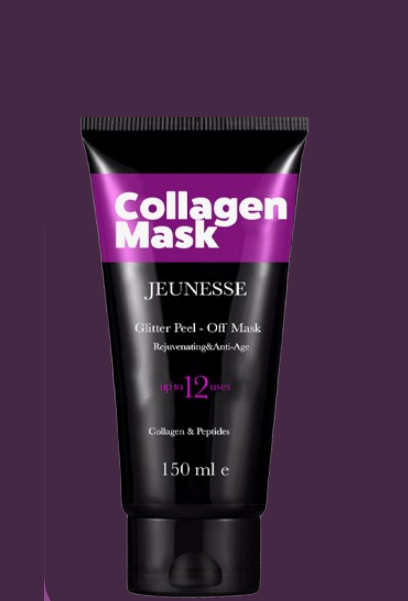
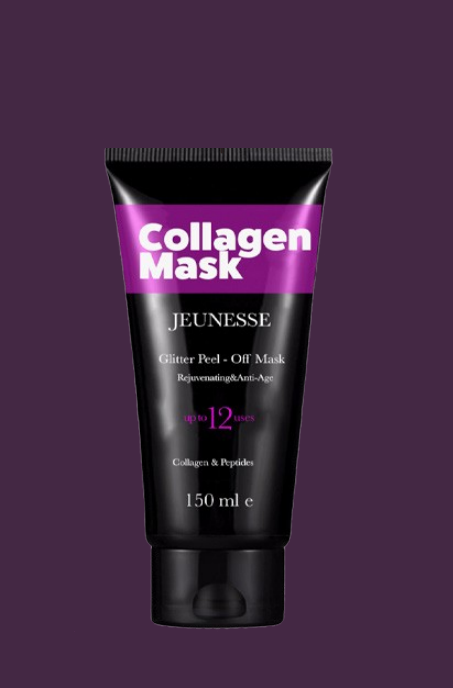
1.0.5

Changed region(s): [[0.1765, 0.1797, 0.7647, 1.0], [0.0882, 0.9584, 0.1176, 1.0]]

diff --git a/script.js b/script.js
@@ -53,46 +53,75 @@ const products = [
     name: "Arındırıcı Soyulabilir Siyah Maske - JEUNESSE ",
     image: "images/JEUN_Armask.png",
     desc: " Ciltteki kir ve yağı temizler. Ölü cilt Hücrelerinin uzaklaştırılmasına yardımcı olur",
-    price: 0,
+    price: 150,
     category: "maske",
     link: "https://www.instagram.com/canankozmetik.dorsy/"
   },
   
   {
-    name: "Arındırıcı Soyulabilir Gümüş Maske",
+    name: "Arındırıcı Soyulabilir Gümüş Maske - JEUNESSE ",
     image: "images/JEUN_Argumus.png",
     desc: "Cilt tonunu eşitlemeye ve aydınlatmaya yardımcı olur. Ölü cilt hücrelerinin giderilmesine de katkıda bulunur",
-    price: 0,
+    price: 150,
     category: "maske",
     link: "https://www.instagram.com/canankozmetik.dorsy/"
   },
   
   {
-    name: "Kırışıklık Karşıtı Soyulabilir Altın Maske",
+    name: "Kırışıklık Karşıtı Soyulabilir Altın Maske - JEUNESSE ",
     image: "images/JEUN_AltnMaske.png",
     desc: "Cildinize esneklik, yumuşaklık ve sıkılık kazandırır.",
-    price: 00,
+    price: 150,
     category: "maske",
     link: "https://www.instagram.com/canankozmetik.dorsy/"
   },
   
   {
-    name: "Simli Soyulabilir Kolajen Maskesi",
+    name: "Simli Soyulabilir Kolajen Maskesi - JEUNESSE ",
     image: "images/JEUN_Simlikolajen.png",
     desc: "Cildinize esneklik, yumuşaklık ve sıkılık kazandırır",
-    price: 00,
+    price: 150,
     category: "maske",
     link: "https://www.instagram.com/canankozmetik.dorsy/"
   },
   
   {
-    name: "Derinlemesine Peeling Etkili Kahve Peelingi ",
+    name: "Derinlemesine Peeling Etkili Kahve Peelingi - JEUNESSE ",
     image: "images/JEUN_Kahve.png",
-    desc: "Kahve özlü peeling, içeriğindeki kaolin ve öğütülmüş kahve çekirdeklerinden elde edilen doğal peeling bileşenleri sayesinde gözenekleri temizler ve arındırır. İçerdiği kafein cildi canlandırır ve pürüzsüz bir görünüm kazandırmaya yardımcı olur.",
-    price: 00,
+    desc: "Gözenekleri temizler ve arındırır. İçerdiği kafein cildi canlandırır ve pürüzsüz bir görünüm kazandırmaya yardımcı olur.",
+    price: 150,
     category: "maske",
     link: "https://www.instagram.com/canankozmetik.dorsy/"
   },
+    
+  {
+    name: "Detoks Etkili Kil Maskesi - JEUNESSE ",
+    image: "images/JEUN_DetoxMaske.png",
+    desc: "  Kil ve kremsi dokusu sayesinde cilttekikiri ve pürüzleri temizler ve cildi kurutmadan detoksifikasyon sağlar.",
+    price: 150,
+    category: "maske",
+    link: "https://www.instagram.com/canankozmetik.dorsy/"
+  },
+    
+  {
+    name: "Pembe Kar Temizleyici Peeling Jeli - JEUNESSE ",
+    image: "images/JEUN_Pembekar.png",
+    desc: " Pembe kar temizleme peeling jeli, içeriğindeki bitki kompleksi sayesinde tıkalı gözenekleri temizler ve cildi tazeler. Ölü cilt hücrelerinin uzaklaştırılmasına yardımcı olur.",
+    price: 150,
+    category: "maske",
+    link: "https://www.instagram.com/canankozmetik.dorsy/"
+  },
+  
+     
+  {
+    name: "3'ü 1 arada Maske (Yüz Temizleyici + Peeling + Maske) - JEUNESSE ",
+    image: "images/JEUN_3in1.png",
+    desc: "  Cildi yoğun bir şekilde temizleyerek yağlardan arındırır, peeling etkisi gösterir, gözenekleri temizler ve arındırır",
+    price: 150,
+    category: "maske",
+    link: "https://www.instagram.com/canankozmetik.dorsy/"
+  },
+
   
 
 ];